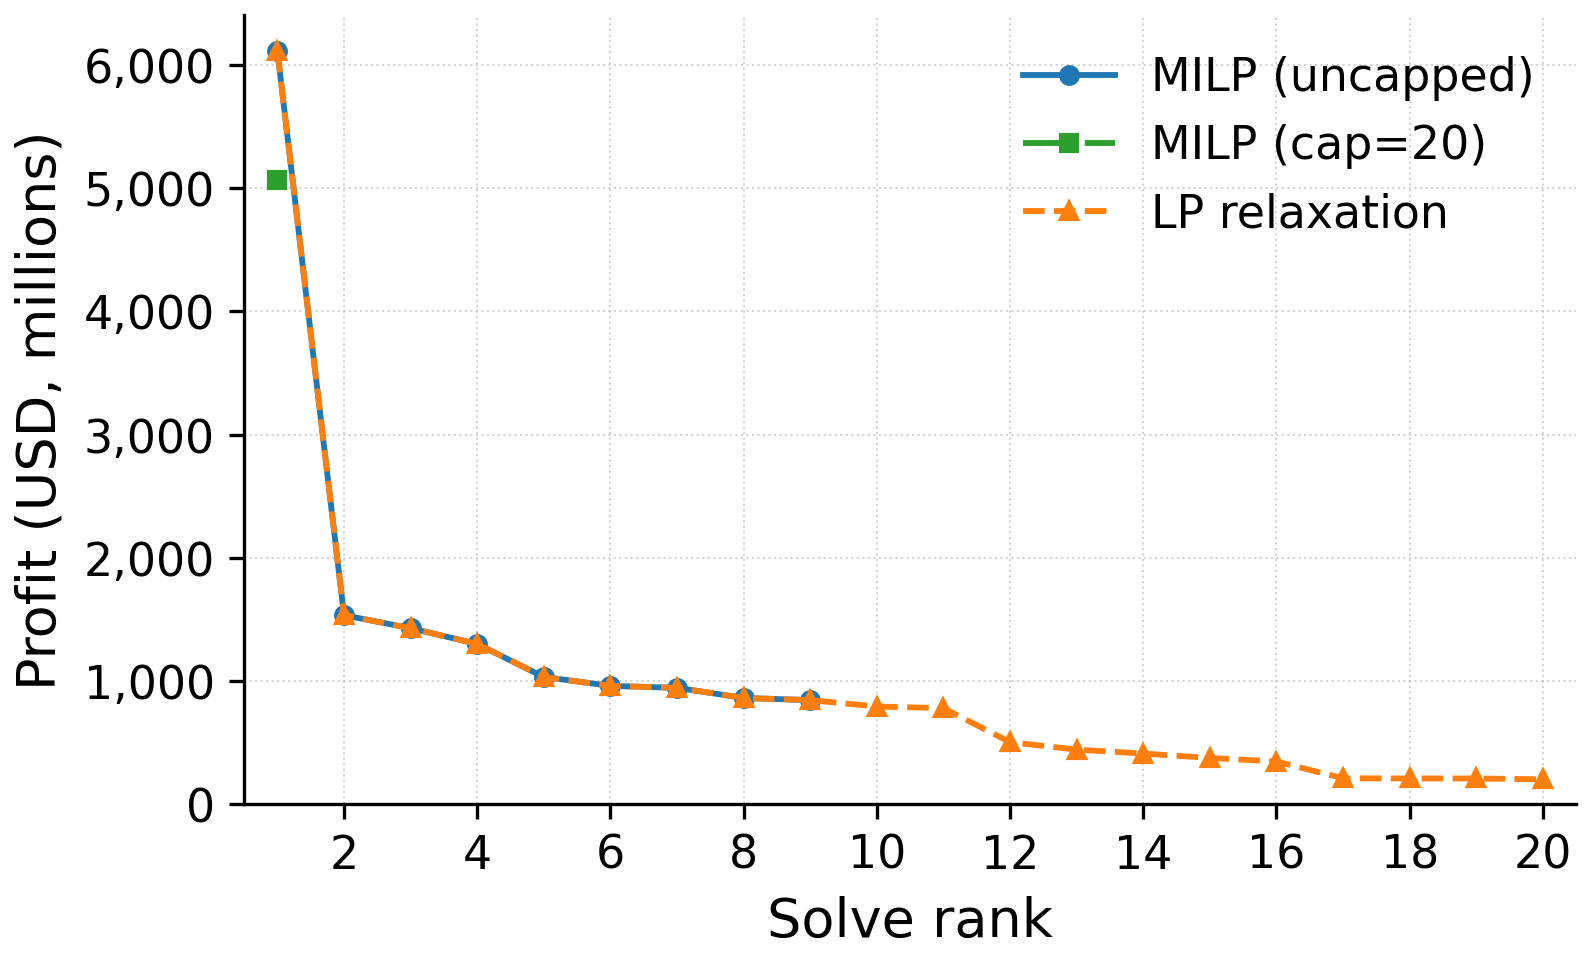
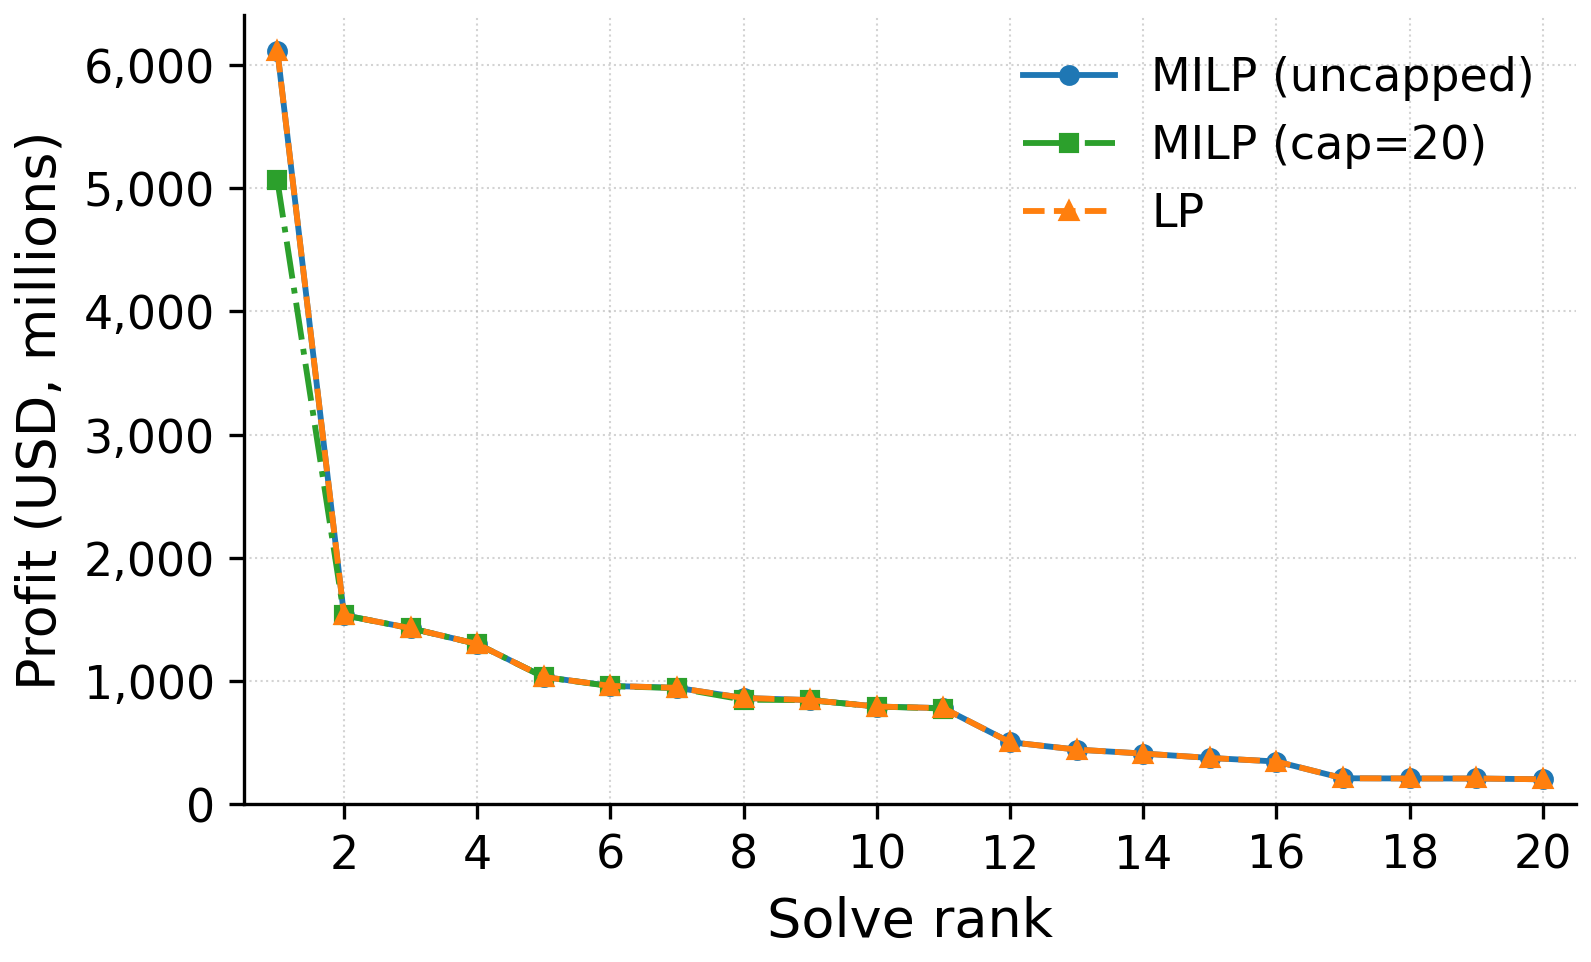
fix(plots): relabel 'LP relaxation' → 'LP'
The LP we run is a complete LP solve in its own right, not a relaxation
step inside an MILP search. 'LP relaxation' was strictly correct but
misleading in paper context.

Renamed in:
  - scripts/plot_complexity_scaling.py legend
  - scripts/regenerate_clean_plots.py _SERIES_PROFIT and _SERIES_TIME
  - scripts/plot_dijkstra_vs_lp.py legend (and module docstring)

Regenerated all paper/figures/ PNGs from the same JSONLs. Also added
two new figures:
  - dijkstra_vs_lp_profit_vs_rank.png
  - dijkstra_vs_lp_solve_time_vs_rank.png
which were referenced in paper/README.md as "(planned: …)" and now
exist.

diff --git a/scripts/plot_dijkstra_vs_lp.py b/scripts/plot_dijkstra_vs_lp.py
@@ -1,4 +1,4 @@
-"""Two paper-clean plots overlaying Knuth-Dijkstra vs LP relaxation.
+"""Two paper-clean plots overlaying Knuth-Dijkstra vs LP.
 
 Reads the JSONLs:
   - data/processed/profit_curve_knuth_balanced.jsonl
@@ -62,7 +62,7 @@ def plot_profit(knuth_for_lp: list[dict], lp: list[dict], top_n: int, out: Path)
             color="#ff7f0e",
             linewidth=1.4,
             markersize=4,
-            label="LP relaxation",
+            label="LP",
         )
     if knuth_for_lp:
         ax.plot(
@@ -110,7 +110,7 @@ def plot_solve_time(knuth: list[dict], lp: list[dict], top_n: int, out: Path) ->
             color="#ff7f0e",
             linewidth=1.4,
             markersize=4,
-            label="LP relaxation",
+            label="LP",
         )
 
     ax.set_xlabel("Solve rank")

diff --git a/scripts/regenerate_clean_plots.py b/scripts/regenerate_clean_plots.py
@@ -59,12 +59,12 @@ def _load_records(jsonl: Path, top_n: int) -> list[dict]:
 _SERIES_PROFIT = [
     ("MILP (uncapped)", "o-", "#1f77b4"),
     ("MILP (cap=20)", "s-.", "#2ca02c"),
-    ("LP relaxation", "^--", "#ff7f0e"),
+    ("LP", "^--", "#ff7f0e"),
 ]
 _SERIES_TIME = [
     ("MILP (uncapped)", "s-", "#d62728"),
     ("MILP (cap=20)", "D-.", "#9467bd"),
-    ("LP relaxation", "v--", "#2ca02c"),
+    ("LP", "v--", "#2ca02c"),
 ]
 
 

diff --git a/scripts/plot_complexity_scaling.py b/scripts/plot_complexity_scaling.py
@@ -54,7 +54,7 @@ def main() -> int:
     styles = {
         "MILP": ("o-", "#1f77b4", "MILP (uncapped)"),
         "MILP-cap20": ("s-.", "#2ca02c", "MILP (cap=20)"),
-        "LP": ("^--", "#ff7f0e", "LP relaxation"),
+        "LP": ("^--", "#ff7f0e", "LP"),
     }
     for mode, (marker, color, label) in styles.items():
         d = df.filter(pl.col("mode") == mode)
